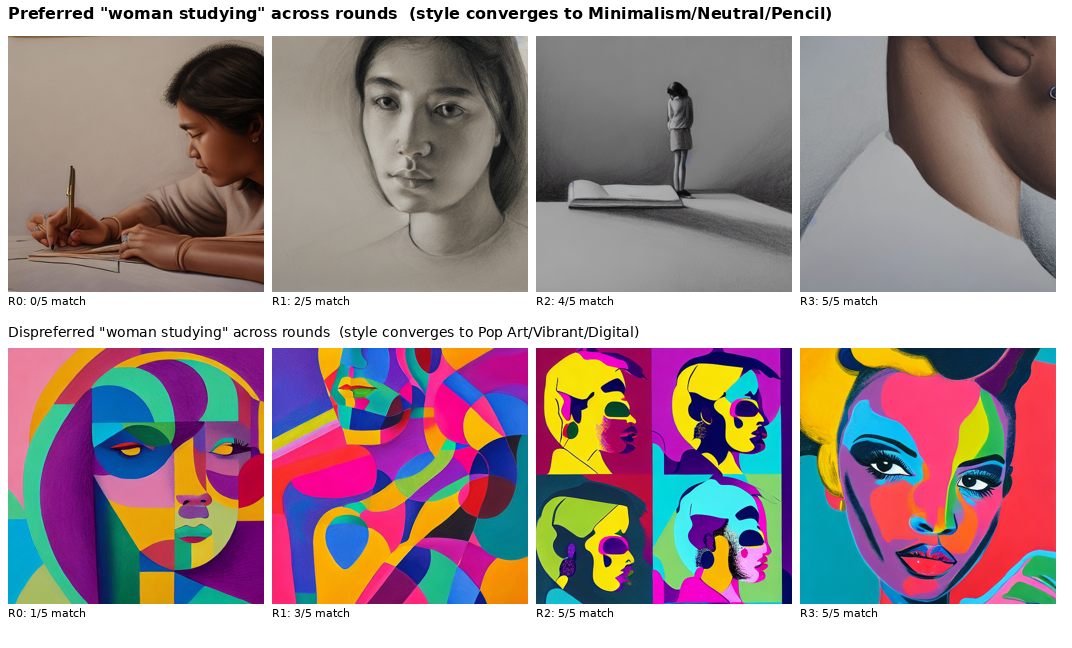
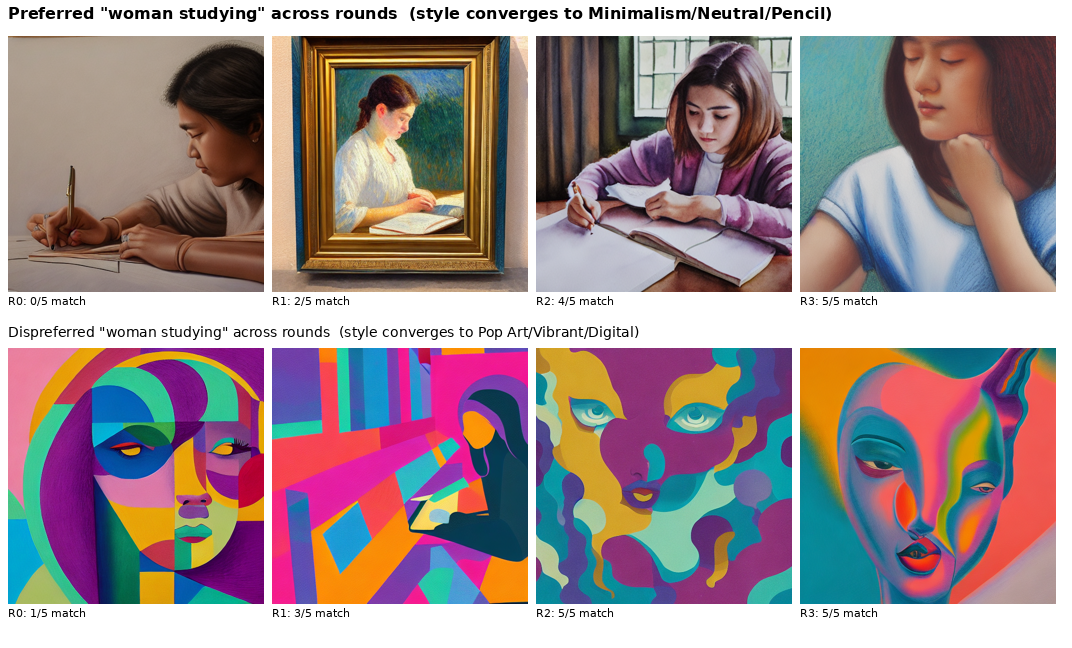
Update aesthetic-agent slides with 3-experiment results
- Remove old demo images (no longer relevant)
- Add Exp 1 (Claude text-only, 15r, 2/5), Exp 2 (Δ+E2T, 10r, 3/5 peak),
  Exp 3 (Δ+embedding matching, 22r, 2/5 plateau)
- Three-way comparison table
- Root cause analysis: warm-init fixed point

diff --git a/projects/aesthetic-agent/slides.md b/projects/aesthetic-agent/slides.md
@@ -31,98 +31,90 @@ backgroundSize: contain
 **Start**: random — Realism / Warm / Pastel / Moderate / Fine (0/5 match)
 
 ---
-layout: image
-image: /round0_grid.png
-backgroundSize: contain
----
 
-<!--
-Round 0 — Random Start (0/5 match)
-Profile: Realism / Warm / Pastel / Moderate / Fine
-Scores: preferred avg=2.7, dispreferred avg=6.8, decisiveness = -4.1
--->
+# Exp 1: Claude Text-Only Refiner (15 Rounds)
 
----
-layout: image
-image: /round1_grid.png
-backgroundSize: contain
----
+Evaluator: Claude reads images via CLI. Refiner: Claude reasons from scores. **No GT leakage.**
 
-<!--
-Round 1 — First Correction (2/5 match)
-Profile: Realism / Warm / Pencil / Moderate / Minimal — medium and detail fixed
-Scores: preferred avg=6.2, dispreferred avg=4.9, decisiveness = +1.3
--->
+| Round | Liked | Disliked | Margin | Key Event |
+|-------|-------|----------|--------|-----------|
+| 0 | 0/5 | 1/5 | +2.0 | Random start |
+| 4 | **1/5** | 2/5 | +2.2 | saturation=Muted found |
+| 7 | 1/5 | **3/5** | +1.8 | Pop Art + Digital + Vivid |
+| 14 | 2/5 | 2/5 | +1.0 | medium=Pencil found (last round) |
 
----
-layout: image
-image: /round2_grid.png
-backgroundSize: contain
----
+**Final**: Liked 2/5 (Muted + Pencil), Disliked 2/5 (Digital + Vivid)
 
-<!--
-Round 2 — Major Leap (4/5 match)
-Profile: Minimalism / Warm / Pencil / Muted / Minimal — art_style and saturation found
-Scores: preferred avg=8.8, dispreferred avg=2.3, decisiveness = +6.5
--->
-
----
-layout: image
-image: /round3_grid.png
-backgroundSize: contain
----
-
-<!--
-Round 3 — Converged! (5/5 match)
-Profile: Minimalism / Neutral / Pencil / Muted / Minimal — last axis (color) found
-Scores: preferred avg=9.5, dispreferred avg=3.1, decisiveness = +6.3
--->
-
----
-layout: image
-image: /evolution_strip.png
-backgroundSize: contain
----
-
-<!--
-Evolution: "Woman Studying" across 4 rounds
-Style converges from Realism/Warm/Pastel to Minimalism/Neutral/Pencil
--->
-
----
-layout: image
-image: /before_after.png
-backgroundSize: contain
----
-
-<!--
-Before vs After: All 4 Base Prompts
-Round 0 (random) vs Round 3 (converged)
--->
+Bottleneck: no gradient direction, weak score signal (2-5 range)
 
 ---
 
-# Convergence Summary
+# Exp 2: Δ Optimization + E2T + Claude Diff (10 Rounds)
 
-| Round | Liked | Disliked | Decisiveness | Key Change |
-|-------|-------|----------|-------------|------------|
-| 0 | 0/5 | 1/5 | -4.1 | Random start |
-| 1 | 2/5 | 3/5 | +1.3 | medium→Pencil, detail→Minimal |
-| 2 | 4/5 | 5/5 | +6.5 | style→Minimalism, sat→Muted |
-| 3 | **5/5** | **5/5** | +6.3 | color→Neutral — **CONVERGED** |
+200-step noise prediction loss, then E2T text inversion, then Claude maps to profile.
 
-4 rounds, 32 images, ~50 seconds on GH200
+| Round | Liked | Disliked | Loss | Key Event |
+|-------|-------|----------|------|-----------|
+| 0 | 0/5 | 1/5 | 1.48 | Start |
+| 4 | **2/5** | 1/5 | 1.93 | Muted + Minimal |
+| **6** | **3/5** | 0/5 | 1.78 | **Neutral + Muted + Minimal** |
+| 7 | 1/5 | 0/5 | 1.62 | E2T resets to Impressionism |
 
-Disliked profile also converged: Surrealism/Cool/Pastel → **Pop Art/Vibrant/Digital** (5/5)
+**Peak 3/5** — Δ gradient found Neutral. But E2T is unstable, maps everything to Impressionism/Warm.
+
+---
+
+# Exp 3: Δ Optimization + Embedding Matching (22 Rounds)
+
+Skip E2T entirely. Match Δ against pre-computed profile template embeddings via cosine similarity.
+
+| Round | Liked | Disliked | Margin | Profile (Liked) |
+|-------|-------|----------|--------|-----------------|
+| 0 | 0/5 | 1/5 | +1.8 | Realism/Warm/Pastel/Moderate/Fine |
+| **1** | **2/5** | 1/5 | +0.8 | Realism/**Neutral**/Pastel/**Muted**/Fine |
+| 2-22 | **2/5** | 1/5 | +0.5~2.8 | (identical — plateau) |
+
+**Result**: Stable 2/5 from Round 1 (Neutral + Muted). No regression (unlike E2T). But **complete plateau** — warm-init locks Δ to same fixed point every round.
+
+---
+
+# Three-Way Comparison
+
+| | Text-Only (15r) | Δ+E2T (10r) | Δ+Embed (22r) |
+|---|---|---|---|
+| Liked peak | 2/5 | **3/5** | 2/5 |
+| Liked final | 2/5 | 2/5 | 2/5 |
+| Disliked peak | **3/5** | 1/5 | 1/5 |
+| Stability | Drifts | **Regresses** | **Rock solid** |
+| Found axes | Muted, Pencil | **Neutral**, Muted, Minimal | **Neutral**, Muted |
+| Bottleneck | No gradient | E2T instability | Warm-init plateau |
+| Time/round | ~2 min | ~6 min | ~5 min |
+
+Each method finds different axes. Δ+E2T finds the most (3) but can't hold them.
+
+---
+
+# Root Cause: Warm-Init Fixed Point
+
+Every round: `Δ_init = E(template(current_profile)) - E(base)`
+
+When profile doesn't change → same Δ_init → same optimized Δ → same profile → **fixed point**
+
+Embedding matching is too stable — it always returns to the same local minimum.
+
+**Proposed fixes:**
+
+1. **Δ accumulation**: carry optimized Δ across rounds instead of re-initializing
+2. **Exploration noise**: add random perturbation to break fixed point
+3. **Coordinate descent**: optimize one axis at a time
+4. **Contrastive loss**: push Δ_pos away from Δ_neg, not just reconstruct
 
 ---
 
 # Summary
 
-- Multi-agent system discovers hidden aesthetic profile in **4 rounds**
-- From **0/5 random** to **5/5 perfect match** on both liked and disliked profiles
-- 5-axis VisualProfile (2,592 possible styles) — structured, not free-form
-- Content-style decoupling via fixed base prompts
-- 26/26 tests passed (CPU + GPU on NVIDIA GH200 120GB)
-
-**Next steps**: Full delta optimization with trained E2T model, extend to SD3.5/FLUX
+- Full system implemented: 14 modules, 26/26 tests, 3 experiments on GH200
+- **Embedding matching > E2T**: stable but plateaus at 2/5
+- **Δ+E2T found 3/5 peak**: proves gradient helps, but E2T is unreliable
+- **Core issue**: warm-init fixed point prevents exploration
+- **Next**: Δ accumulation + exploration noise to break plateau
